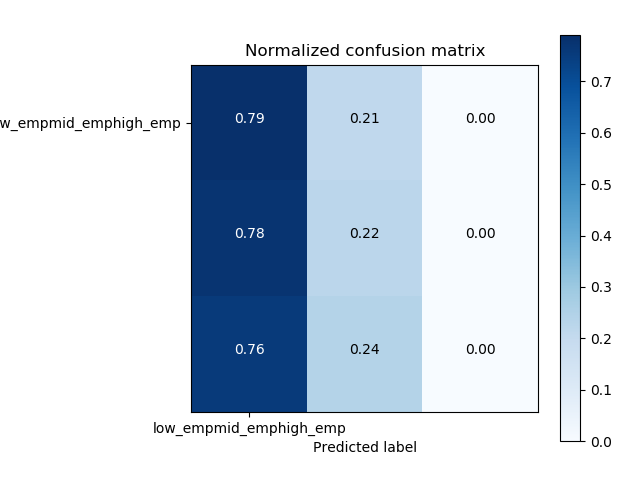
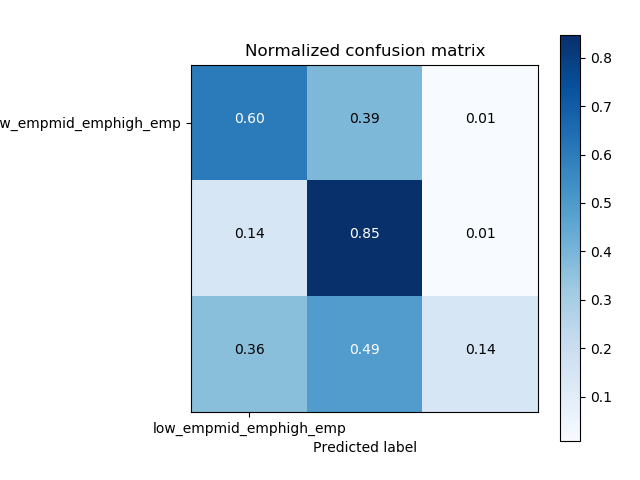
plot bug resolved

diff --git a/Results/plot_confusion_matrix.py b/Results/plot_confusion_matrix.py
@@ -43,12 +43,16 @@ def plot_confusion_matrix(cm, classes,
 y=np.loadtxt("predicted_labels.txt")
 
 # Compute confusion matrix
+
+y[:,0][y[:,0]==2]=1
+y[:,1][y[:,1]==2]=1
 cnf_matrix = confusion_matrix(y[:,0], y[:,1])
 np.set_printoptions(precision=2)
 
 
 
-class_names=['low_emp' 'mid_emp' 'high_emp']
+# class_names=['low_emp' 'mid_emp' 'high_emp']
+class_names=['low_emp' 'mid_emp']
 
 
 # Plot non-normalized confusion matrix
